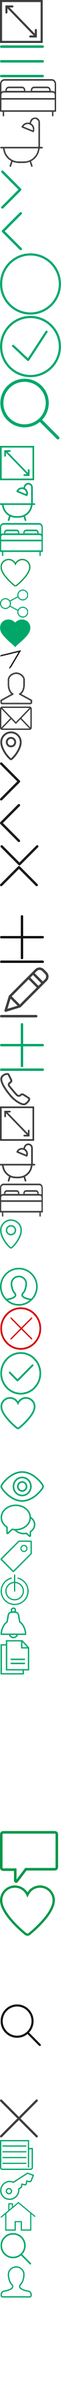
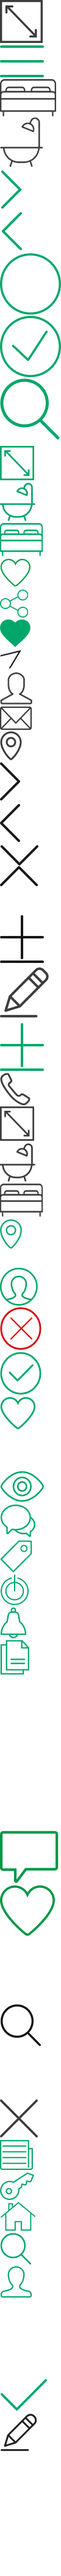
update html chinh sua thong tin ca nhan

Changed region(s): [[0.0, 0.0, 1.0, 0.9618]]

diff --git a/apps/metvuong/frontend/web/themes/mv_mobile1/resources/css/style.css b/apps/metvuong/frontend/web/themes/mv_mobile1/resources/css/style.css
@@ -27,7 +27,7 @@ a:active, a:visited, a:link {
 }
 .icon {
     background: url(../images/icon.png) no-repeat top left;
-    background-size: 33px 1300px;
+    background-size: 33px 1400px;
     display: inline-block;
 }
 header {
@@ -1080,6 +1080,9 @@ label {
     border-bottom: solid 0.5px #ededed;
     background: #fff;
 }
+.title-top a {
+    color: #00a769;
+}
 .list-img li {
     float: left;
     width: 100%;
@@ -2000,7 +2003,7 @@ label {
 .icon-share-td {
     display: inline-block;
     background-position: 0 -480px;
-    background-size: 50px 1950px;
+    background-size: 50px 2100px;
     width: 24px;
     height: 24px;
     position: relative;
@@ -2009,7 +2012,7 @@ label {
 .save-item {
     display: inline-block;
     background-position: 0 -455px;
-    background-size: 50px 1950px;
+    background-size: 50px 2100px;
     width: 25px;
     height: 23px;
 }
@@ -3381,7 +3384,7 @@ input[type=text]:focus {
 }
 .icon-map-loca {
     background-position: 0px -994px;
-    background-size: 50px 1950px;
+    background-size: 50px 2100px;
     width: 18px;
     height: 24px;
 }
@@ -3431,6 +3434,11 @@ input[type=text]:focus {
     background-position: 0 -778px;
     width: 20px;
     height: 21px;
+}
+.icon-edit-small-1 {
+    background-position: 0 -1311px;
+    width: 20px;
+    height: 22px;
 }
 .edit-duan {
     position: absolute;
@@ -3545,19 +3553,19 @@ input[type=text]:focus {
 }
 .icon-alert {
     background-position: 0 -1310px;
-    background-size: 50px 1950px;
+    background-size: 50px 2100px;
     width: 22px;
     height: 26px;
 }
 .icon-listings {
     background-position: 0 -1337px;
-    background-size: 50px 1950px;
+    background-size: 50px 2100px;
     width: 24px;
     height: 29px;
 }
 .icon-chat {
     background-position: 0 -1226px;
-    background-size: 50px 1950px;
+    background-size: 50px 2100px;
     width: 30px;
     height: 26px;
 }
@@ -3568,13 +3576,13 @@ input[type=text]:focus {
 }
 .icon-tags {
     background-position: 0 -1255px;
-    background-size: 50px 1950px;
+    background-size: 50px 2100px;
     width: 26px;
     height: 27px;
 }
 .icon-logout {
     background-position: 0 -1283px;
-    background-size: 50px 1950px;
+    background-size: 50px 2100px;
     width: 24px;
     height: 26px;
 }
@@ -4101,25 +4109,25 @@ input[type=text]:focus {
     width: 26px;
     height: 26px;
     background-position: 0 -1820px;
-    background-size: 50px 1950px;
+    background-size: 50px 2100px;
 }
 .icon-key {
     background-position: 0 -1771px;
     width: 28px;
     height: 23px;
-    background-size: 50px 1950px;
+    background-size: 50px 2100px;
 }
 .icon-home {
     background-position: 0 -1795px;
     width: 29px;
     height: 24px;
-    background-size: 50px 1950px;
+    background-size: 50px 2100px;
 }
 .icon-news {
     background-position: 0 -1744px;
     width: 28px;
     height: 25px;
-    background-size: 50px 1950px;
+    background-size: 50px 2100px;
 }
 #settings-user li a > div,
 .wrap-menu li a > div {
@@ -4359,8 +4367,8 @@ input[type=text]:focus {
 .icon-per {
     display: inline-block;
     background-position: 0 -1847px;
-    background-size: 50px 1950px;
-    width: 26px;
+    background-size: 50px 2100px;
+    width: 27px;
     height: 26px;
 }
 .statis .list-item li img {
@@ -4373,19 +4381,19 @@ input[type=text]:focus {
 }
 .icon-chat-sub{
     background-position: 0 -529px;
-    background-size: 50px 1950px;
+    background-size: 50px 2100px;
     width: 17px;
     height: 16px;
 }
 .icon-face {
     background-position: 0 -1914px;
-    background-size: 50px 1950px;
+    background-size: 50px 2100px;
     width: 11px;
     height: 24px;
 }
 .icon-email-2 {
     background-position: 0 -1895px;
-    background-size: 50px 1950px;
+    background-size: 50px 2100px;
     width: 21px;
     height: 18px;
 }
@@ -4677,4 +4685,61 @@ input[type=text]:focus {
 .detail-listing .panel-body {
     font-size: 14px;
     line-height: 24px;
+}
+#done-page {
+    position: absolute;
+    top: 0;
+    right: 0;
+    padding: 7px 15px;
+}
+.icon-done {
+    background-position: 0 -1293px;
+    width: 25px;
+    height: 17px;
+}
+.wrap-edit-tt {
+    padding: 25px 0;
+}
+.wrap-edit-tt .title-update-tt {
+    position: relative;
+    background: #f5f5f5;
+    padding: 10px 20px;
+    letter-spacing: 0.5px;
+    font-weight: 600;
+    font-size: 15px;
+}
+.wrap-attr-detail {
+    font-size: 15px;
+}
+.wrap-attr-detail li {
+    float: left;
+    width: 100%;
+    border-bottom: solid 0.5px #ededed;
+    padding: 0 20px;
+}
+.wrap-attr-detail li:last-child {
+    border: none;
+}
+.wrap-attr-detail li span {
+    vertical-align: middle;
+    display: inline-block;
+    padding: 10px 0;
+    font-size: 14px;
+}
+.wrap-attr-detail li .attr-right {
+    padding: 10px 0;
+    display: inline-block;
+    font-weight: 600;
+    border: none;
+    text-align: right;
+    font-size: 15px;
+}
+.wrap-attr-detail .txt-wrap {
+    padding: 15px 20px;
+}
+.wrap-edit-tt .title-update-tt a {
+    position: absolute;
+    right: 0;
+    top: 0;
+    padding: 7px 20px;
 }

diff --git a/apps/metvuong/frontend/web/themes/mv_mobile1/views/payment/index.php b/apps/metvuong/frontend/web/themes/mv_mobile1/views/payment/index.php
@@ -6,3 +6,82 @@
  * Time: 9:51 AM
  */
 ?>
+<div class="title-fixed-wrap">
+	<div class="edit-user-tt">
+		<div class="title-top">
+			<a href="#">CHỈNH SỬA THÔNG TIN</a>
+			<a href="javascript:history.back()" id="prev-page"><span class="icon arrowRight-1"></span></a>
+			<a href="#" id="done-page"><span class="icon icon-done"></span></a>
+		</div>
+		<div class="wrap-edit-tt">
+			<div class="title-update-tt">
+				THÔNG TIN CÁ NHÂN
+				<a href="#"><span class="icon icon-edit-small-1"></span></a>
+			</div>
+			<div class="list-tt-user wrap-attr-detail">
+				<ul class="clearfix">
+					<li>
+						<span class="attr-right pull-right">Huan</span>
+						<span>Tên</span>
+					</li>
+					<li>
+						<span class="attr-right pull-right">Ta</span>
+						<span>Họ</span>
+					</li>
+					<li>
+						<span class="attr-right pull-right">090 3 80 124124</span>
+						<span>Phone Number</span>
+					</li>
+					<li>
+						<select class="attr-right pull-right">
+							<option value="" selected>Người môi giới</option>
+							<option value="">Chủ nhà</option>
+						</select>
+						<span>Tôi là</span>
+					</li>
+				</ul>
+			</div>
+			<div class="title-update-tt">
+				MÔ TẢ BẢN THÂN
+				<a href="#"><span class="icon icon-edit-small-1"></span></a>
+			</div>
+			<div class="wrap-attr-detail">
+				<div class="txt-wrap">
+					<p>Phasellus non eros tortor. Ut sodales purus a ipsum fringilla, et pharetra lacus consectetur. Cras interdum sapien ut faucibus ornare. Duis efficitur enim at augue semper, vitae eleifend augue elementum...</p>		
+				</div>
+			</div>
+			<div class="title-update-tt">
+				ĐỊA ĐIỂM
+				<a href="#"><span class="icon icon-edit-small-1"></span></a>
+			</div>
+			<div class="list-tt-user wrap-attr-detail">
+				<ul class="clearfix">
+					<li>
+						<span class="attr-right pull-right">VietNam</span>
+						<span>Country</span>
+					</li>
+				</ul>
+			</div>
+			<div class="title-update-tt">
+				MẬT KHẨU
+				<a href="#"><span class="icon icon-edit-small-1"></span></a>
+			</div>
+			<div class="list-tt-user wrap-attr-detail">
+				<ul class="clearfix">
+					<li>
+						<input type="password" class="attr-right pull-right" value="123456" />
+						<span>Password</span>
+					</li>
+					<li>
+						<input type="password" class="attr-right pull-right" value="123456" />
+						<span>New Password</span>
+					</li>
+					<li>
+						<input type="password" class="attr-right pull-right" value="123456" />
+						<span>Gõ lại Password</span>
+					</li>
+				</ul>
+			</div>
+		</div>
+	</div>
+</div>
